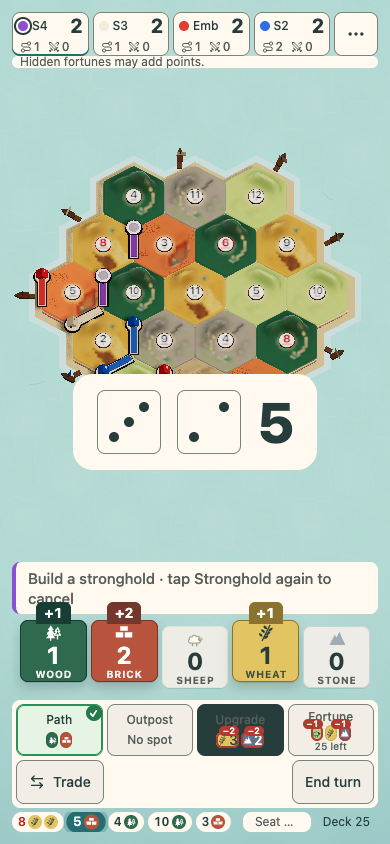
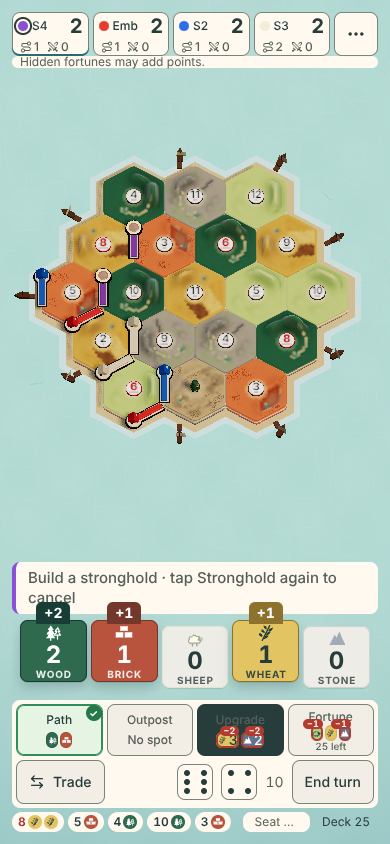
#830: legal corners use the game's warm orange-white glow (owner q848-glow)
Jarrod's answer on q848-glow: "Use our other glow we already use elsewhere,
it's like an orange white glow." The rings' emissive and the discs now use
WARM_GLOW (0xffd27a), the glow a paying piece takes on a roll, named once and
shared by both. Rings keep their seat-coloured base, as a paying piece does.
Path bars are unchanged. Pictures repinned; the previous set is kept under
docs/proofs/830/before-q848/ for the before/after.

Adopted by Claude Opus 5.5 (builder 2)

Claude-Session: https://claude.ai/code/session_016gCXkyBZzNk47SqHsdrRkS

diff --git a/src/lib/scene/isle-renderer.ts b/src/lib/scene/isle-renderer.ts
@@ -111,6 +111,9 @@ const VERTEX_RING = { radius: 0.2, tube: 0.04, outline: 0.025, outlineColor: 0x1
 // high for the outpost, 0.086 for the keep (pieces-jelly.ts: (0.04 + 0.035) * 1.15). The ring (outer radius 0.265 with its
 // outline, 0.53 across, under HEX_SIZE / 2) cannot widen past it, so on those corners the mark lifts to rest on the base.
 const PIECE_BASE_TOP = 0.09;
+// The warm orange-white glow a paying piece takes on a roll. The legal-corner rings and discs use the same glow (#830, owner
+// direction q848-glow: "use our other glow we already use elsewhere"), so both read as one family.
+const WARM_GLOW = 0xffd27a;
 
 // The two views in play (docs/design/camera-light.md). Overhead: a frustum and a look-at point from the fit to the HUD hole,
 // and the eye on an orbit around that point, ORBIT_RADIUS out. Diorama (the default, #597): a perspective eye on an orbit
@@ -671,7 +674,7 @@ export class IsleRenderer {
         }
         if (mesh.userData.payerMaterial) {
           const mat = mesh.material as THREE.MeshStandardMaterial;
-          mat.emissive.set(0xffd27a);
+          mat.emissive.set(WARM_GLOW);
           mat.emissiveIntensity = calm && active ? 0.35 : 0;
         }
       });
@@ -1901,8 +1904,8 @@ export class IsleRenderer {
     const seat = new THREE.Color(state.players.find((p) => p.id === state.current)?.color ?? "#fff6e8");
     // The glow leans toward cream so a dark seat (Pine) still reads on forest at the pulse trough; the hue stays the seat's.
     const glow = seat.clone().lerp(new THREE.Color(0xfff6e8), 0.35);
-    // The corner rings lean further to cream (#830); the path bars keep the glow above.
-    const ringGlow = seat.clone().lerp(new THREE.Color(0xfff6e8), 0.5);
+    // The corner rings glow with the paying-piece warm glow (#830); the path bars keep the seat glow above.
+    const ringGlow = new THREE.Color(WARM_GLOW);
 
     const legalVertices = state.vertices.filter((v) => vset.has(v.id));
     if (legalVertices.length > 0) {
@@ -1914,7 +1917,7 @@ export class IsleRenderer {
       outlines.userData = { kind: "vertex-outlines" };
 
       const discGeo = new THREE.CircleGeometry(VERTEX_RING.radius, 32);
-      const discMat = new THREE.MeshBasicMaterial({ color: 0xfff6e8, transparent: true, opacity: 0.3, depthWrite: false, depthTest: false });
+      const discMat = new THREE.MeshBasicMaterial({ color: WARM_GLOW, transparent: true, opacity: 0.3, depthWrite: false, depthTest: false });
       const discs = new THREE.InstancedMesh(discGeo, discMat, legalVertices.length);
       discs.renderOrder = 99;
       discs.userData = { kind: "vertex-discs" };
